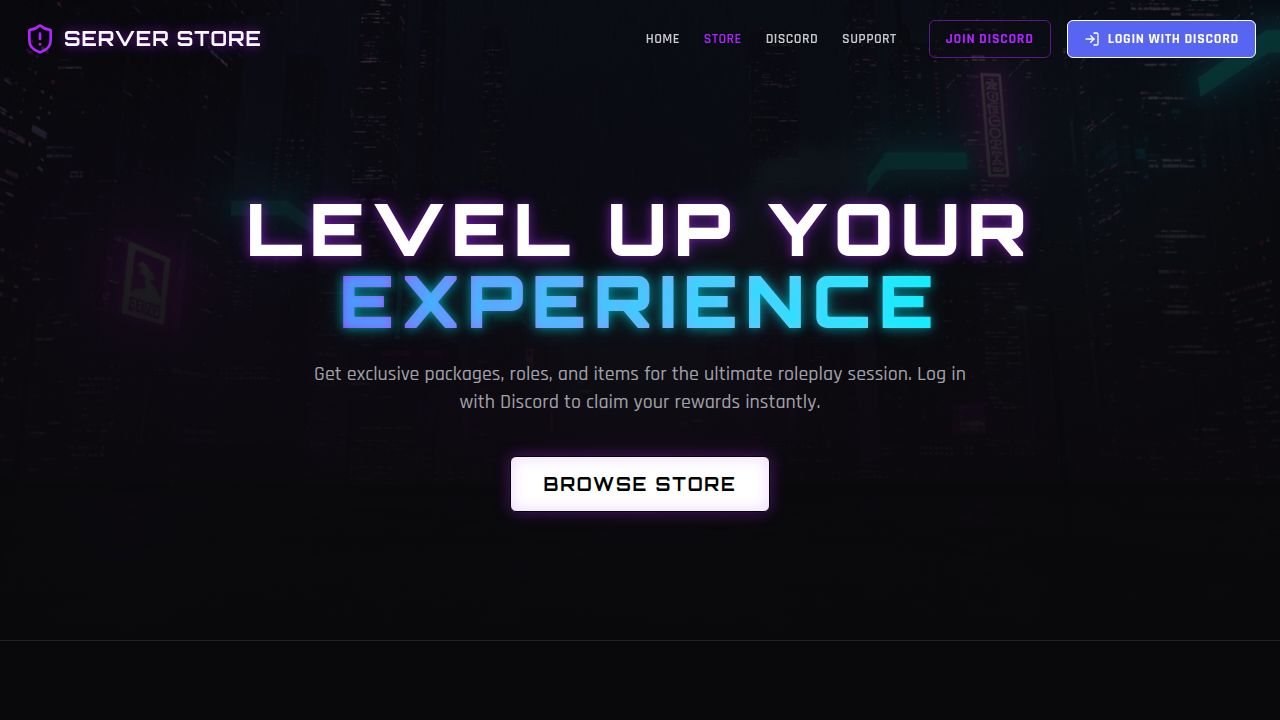
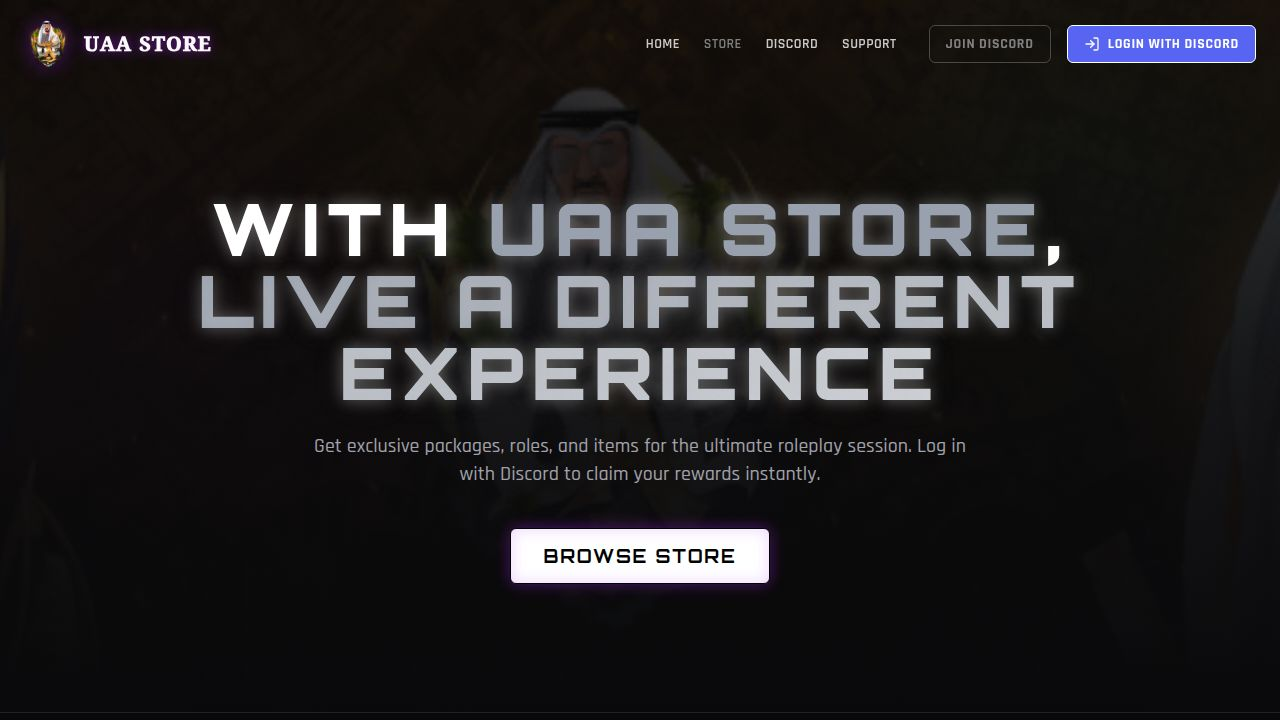
Update website visuals and package offerings with a new gray theme
Replaces purple accents with gray, updates hero text, reorganizes and removes specific packages, and adjusts pricing in `mock-data.ts`.

Replit-Commit-Author: Agent
Replit-Commit-Session-Id: df68417a-05c5-4cce-9be2-ff0393778606
Replit-Commit-Checkpoint-Type: full_checkpoint
Replit-Commit-Event-Id: ead25962-9a13-4fb4-923d-6c2c88bb9560
Replit-Commit-Screenshot-Url: https://storage.googleapis.com/screenshot-production-us-central1/167e323f-6add-4ef7-9ef3-a219f516f5a2/df68417a-05c5-4cce-9be2-ff0393778606/uAJslZT
Replit-Helium-Checkpoint-Created: true

diff --git a/client/src/lib/mock-data.ts b/client/src/lib/mock-data.ts
@@ -1,46 +1,46 @@
 export const packages = [
-  { id: 1, name: "Menu Cars", price: 30.00, category: "Menu", description: "Access to the exclusive vehicles menu." },
-  { id: 2, name: "Menu Clothes", price: 30.00, category: "Menu", description: "Custom clothing options menu." },
-  { id: 3, name: "private CAR", price: 25.00, category: "Vehicles", description: "Your own 1-of-1 private vehicle." },
-  { id: 4, name: "Elite Pack", price: 50.00, category: "Bundles", description: "The ultimate starter bundle for elite players." },
-  { id: 5, name: "SPECIAL ID - Premium 2-digit", price: 185.00, category: "ID", description: "Special 2-digit server ID (e.g. 55-66)." },
-  { id: 6, name: "Elite Pets", price: 40.00, category: "Pets", description: "Exclusive in-game companions." },
-  { id: 7, name: "Baby Pack", price: 40.00, category: "Bundles", description: "Starter items to get you going." },
-  { id: 8, name: "Anime", price: 30.00, category: "Misc", description: "Anime themed items and props." },
-  { id: 9, name: "CAVE", price: 30.00, category: "Misc", description: "Private cave hideout access." },
-  { id: 10, name: "Private Home", price: 45.00, category: "Housing", description: "Custom mapping interior." },
-  { id: 11, name: "Cinema Remote", price: 50.00, category: "Misc", description: "Control the drive-in cinema." },
-  { id: 12, name: "JUST NAME", price: 10.00, category: "Role", description: "Custom colored name overhead." },
-  { id: 13, name: "ONLY NAME", price: 10.00, category: "Role", description: "Hide your ID, show only name." },
-  { id: 14, name: "ID NAME", price: 25.00, category: "Role", description: "Custom tag formatting." },
-  { id: 15, name: "BATMAN", price: 25.00, category: "Heroes", description: "Play as the Dark Knight." },
-  { id: 16, name: "IRON MAN", price: 25.00, category: "Heroes", description: "Full suit and abilities." },
-  { id: 17, name: "HULK", price: 25.00, category: "Heroes", description: "Smash through the city." },
-  { id: 18, name: "SUPERMAN", price: 25.00, category: "Heroes", description: "Flight and super strength." },
-  { id: 19, name: "SPIDER MAN", price: 25.00, category: "Heroes", description: "Web swinging enabled." },
-  { id: 20, name: "HITMAN", price: 25.00, category: "Heroes", description: "Agent 47 custom ped." },
-  { id: 21, name: "Catwomen", price: 25.00, category: "Heroes", description: "Custom ped and agility." },
-  { id: 22, name: "SLENDAR MAN", price: 25.00, category: "Heroes", description: "Terrorize the server." },
-  { id: 23, name: "Flash", price: 25.00, category: "Heroes", description: "Super speed abilities." },
-  { id: 24, name: "JOKER", price: 25.00, category: "Heroes", description: "Custom ped and laugh." },
-  { id: 25, name: "Kill Field", price: 20.00, category: "Misc", description: "Custom kill effects." },
-  { id: 26, name: "Login", price: 5.00, category: "Misc", description: "Custom login screen music/video." },
-  { id: 27, name: "GHOST", price: 400.00, category: "VIP", description: "Premium Ghost status + monthly renewal (550 AED)." },
-  { id: 28, name: "Do Not Disturb", price: 400.00, category: "Misc", description: "Ignore all requests and stay invisible." },
-  { id: 29, name: "Red Ruby", price: 200.00, category: "VIP", description: "Premium ruby tier membership." },
-  { id: 30, name: "كبار داعمين السيرفر", price: 128.00, category: "VIP", description: "Top Supporter rank with exclusive perks." },
-  { id: 31, name: "Kill Field List", price: 15.00, category: "Misc", description: "Custom killfeed UI." },
-  { id: 32, name: "Chat Name", price: 80.00, category: "Role", description: "Colored chat name tag." },
-  { id: 33, name: "MASTER", price: 70.00, category: "VIP", description: "Master VIP Tier - Ultimate status." },
-  { id: 34, name: "DIAMOND", price: 44.00, category: "VIP", description: "Diamond VIP Tier." },
-  { id: 35, name: "GOLD", price: 36.00, category: "VIP", description: "Gold VIP Tier." },
-  { id: 36, name: "SILVER", price: 30.00, category: "VIP", description: "Silver VIP Tier." },
-  { id: 37, name: "VIP MENU", price: 70.00, category: "VIP", description: "Access to VIP exclusive menu." },
-  { id: 38, name: "SPECIAL ID - Normal 2-digit", price: 150.00, category: "ID", description: "Standard 2-digit server ID (e.g. 40-30)." },
-  { id: 39, name: "SPECIAL ID - Premium 3-digit", price: 65.00, category: "ID", description: "Premium 3-digit server ID (e.g. 112, 312)." },
-  { id: 40, name: "SPECIAL ID - Normal 3-digit", price: 55.00, category: "ID", description: "Standard 3-digit server ID (e.g. 136, 362)." },
-  { id: 41, name: "SPECIAL ID - Repeated 3-digit", price: 80.00, category: "ID", description: "Special repeated 3-digit ID (e.g. 111, 333)." },
-  { id: 42, name: "SPECIAL ID - Repeated 4-digit", price: 70.00, category: "ID", description: "Premium 4-digit repeated ID (e.g. 1111, 3333)." },
+  { id: 1, name: "GHOST", price: 400.00, category: "VIP", description: "Premium Ghost status. First purchase." },
+  { id: 2, name: "Do Not Disturb", price: 400.00, category: "Premium", description: "Stay invisible and ignore all requests." },
+  { id: 3, name: "SPECIAL ID - Premium 2-digit", price: 185.00, category: "ID", description: "Premium 2-digit server ID (e.g. 55, 66)." },
+  { id: 4, name: "Red Ruby", price: 200.00, category: "VIP", description: "Premium ruby tier membership." },
+  { id: 5, name: "SPECIAL ID - Normal 2-digit", price: 150.00, category: "ID", description: "Standard 2-digit server ID (e.g. 40, 30)." },
+  { id: 6, name: "CAVE (1 Month)", price: 150.00, category: "Housing", description: "Private cave hideout for 1 month." },
+  { id: 7, name: "CAVE (1 Week)", price: 80.00, category: "Housing", description: "Private cave hideout for 1 week." },
+  { id: 8, name: "SPECIAL ID - Repeated 3-digit", price: 80.00, category: "ID", description: "Premium repeated 3-digit ID (e.g. 111, 333)." },
+  { id: 9, name: "Kill Field List", price: 80.00, category: "Misc", description: "Custom killfeed UI." },
+  { id: 10, name: "SPECIAL ID - 6-Digit Negative Repeating", price: 70.00, category: "ID", description: "6-Digit negative repeating (e.g. -222222, -333333)." },
+  { id: 11, name: "VIP MENU", price: 70.00, category: "VIP", description: "Access to VIP exclusive menu." },
+  { id: 12, name: "MASTER", price: 70.00, category: "VIP", description: "Master VIP Tier - Ultimate status." },
+  { id: 13, name: "SPECIAL ID - Repeated 4-digit", price: 70.00, category: "ID", description: "Premium 4-digit repeated ID (e.g. 1111, 3333)." },
+  { id: 14, name: "SPECIAL ID - Premium Triplet", price: 65.00, category: "ID", description: "Premium 3-digit server ID (e.g. 112, 312)." },
+  { id: 15, name: "SPECIAL ID - 6-Digit Negative Standard", price: 65.00, category: "ID", description: "6-Digit negative standard (e.g. -656565)." },
+  { id: 16, name: "كبار داعمين السيرفر", price: 128.00, category: "VIP", description: "Top Supporter rank with exclusive perks." },
+  { id: 17, name: "DIAMOND", price: 44.00, category: "VIP", description: "Diamond VIP Tier." },
+  { id: 18, name: "GOLD", price: 36.00, category: "VIP", description: "Gold VIP Tier." },
+  { id: 19, name: "SILVER", price: 30.00, category: "VIP", description: "Silver VIP Tier." },
+  { id: 20, name: "Menu Cars", price: 30.00, category: "Menu", description: "Access to the exclusive vehicles menu." },
+  { id: 21, name: "Menu Clothes", price: 30.00, category: "Menu", description: "Custom clothing options menu." },
+  { id: 22, name: "Elite Pack", price: 50.00, category: "Bundles", description: "The ultimate starter bundle for elite players." },
+  { id: 23, name: "Elite Pets", price: 50.00, category: "Pets", description: "Exclusive in-game companions." },
+  { id: 24, name: "Cinema Remote", price: 50.00, category: "Misc", description: "Control the drive-in cinema." },
+  { id: 25, name: "Baby Pack", price: 40.00, category: "Bundles", description: "Starter items to get you going." },
+  { id: 26, name: "ONLY NAME", price: 40.00, category: "Role", description: "Hide your ID, show only name." },
+  { id: 27, name: "SPECIAL ID - Standard Triplet", price: 55.00, category: "ID", description: "Standard 3-digit server ID (e.g. 136, 362)." },
+  { id: 28, name: "SPECIAL ID - 5-Digit Negative", price: 55.00, category: "ID", description: "5-Digit negative ID (minimum 5 digits, e.g. -52133)." },
+  { id: 29, name: "CAVE (2 Days)", price: 30.00, category: "Housing", description: "Private cave hideout for 2 days." },
+  { id: 30, name: "JUST NAME", price: 200.00, category: "Role", description: "Custom colored name overhead tag." },
+  { id: 31, name: "BATMAN", price: 20.00, category: "Heroes", description: "Play as the Dark Knight." },
+  { id: 32, name: "IRON MAN", price: 20.00, category: "Heroes", description: "Full suit and abilities." },
+  { id: 33, name: "HULK", price: 20.00, category: "Heroes", description: "Smash through the city." },
+  { id: 34, name: "SUPERMAN", price: 20.00, category: "Heroes", description: "Flight and super strength." },
+  { id: 35, name: "SPIDER MAN", price: 20.00, category: "Heroes", description: "Web swinging enabled." },
+  { id: 36, name: "HITMAN", price: 20.00, category: "Heroes", description: "Agent 47 custom ped." },
+  { id: 37, name: "Catwomen", price: 20.00, category: "Heroes", description: "Custom ped and agility." },
+  { id: 38, name: "SLENDAR MAN", price: 20.00, category: "Heroes", description: "Terrorize the server." },
+  { id: 39, name: "Flash", price: 20.00, category: "Heroes", description: "Super speed abilities." },
+  { id: 40, name: "JOKER", price: 20.00, category: "Heroes", description: "Custom ped and laugh." },
+  { id: 41, name: "Kill Field", price: 20.00, category: "Misc", description: "Custom kill effects." },
+  { id: 42, name: "ID NAME", price: 25.00, category: "Role", description: "Custom tag formatting." },
 ];
 
 export type Package = typeof packages[0];

diff --git a/client/src/pages/home.tsx b/client/src/pages/home.tsx
@@ -44,13 +44,13 @@ export default function Home() {
         </div>
         
         <div className="container relative z-10 mx-auto px-4 text-center">
-          <h1 className="text-5xl md:text-7xl font-display font-black text-white mb-6 tracking-widest uppercase neon-text-purple">
-            Level Up Your <br/><span className="text-transparent bg-clip-text bg-gradient-to-r from-primary to-secondary neon-text-blue">Experience</span>
+          <h1 className="text-5xl md:text-7xl font-display font-black text-white mb-6 tracking-widest uppercase neon-text-gray">
+            With <span className="text-gray-400">UAA STORE</span>,<br/><span className="text-transparent bg-clip-text bg-gradient-to-r from-gray-400 to-gray-300">Live a Different Experience</span>
           </h1>
           <p className="text-lg md:text-xl text-muted-foreground max-w-2xl mx-auto mb-10 font-medium">
             Get exclusive packages, roles, and items for the ultimate roleplay session. Log in with Discord to claim your rewards instantly.
           </p>
-          <Button size="lg" className="h-14 px-8 text-lg bg-white text-black hover:bg-white/90 font-display font-bold uppercase tracking-widest neon-box-purple">
+          <Button size="lg" className="h-14 px-8 text-lg bg-white text-black hover:bg-white/90 font-display font-bold uppercase tracking-widest neon-box-gray">
             Browse Store
           </Button>
         </div>
@@ -72,7 +72,7 @@ export default function Home() {
                   onClick={() => setActiveCategory(cat)}
                   className={`px-4 py-2 rounded-full font-display text-sm font-bold tracking-wider whitespace-nowrap transition-all ${
                     activeCategory === cat 
-                      ? "bg-primary text-white neon-box-purple" 
+                      ? "bg-gray-600 text-white neon-box-gray" 
                       : "bg-card border border-white/10 text-muted-foreground hover:text-white hover:border-white/30"
                   }`}
                 >
@@ -93,7 +93,7 @@ export default function Home() {
 
       {/* Mock Checkout Dialog */}
       <Dialog open={isCheckingOut} onOpenChange={setIsCheckingOut}>
-        <DialogContent className="bg-card border-primary/20 neon-box-purple sm:max-w-md">
+        <DialogContent className="bg-card border-gray-600/20 neon-box-gray sm:max-w-md">
           {purchaseSuccess ? (
             <div className="flex flex-col items-center justify-center py-8 text-center animate-in zoom-in">
               <div className="w-16 h-16 rounded-full bg-green-500/20 flex items-center justify-center mb-4">
@@ -101,7 +101,7 @@ export default function Home() {
               </div>
               <DialogTitle className="text-2xl font-display text-white mb-2">Payment Successful!</DialogTitle>
               <p className="text-muted-foreground">
-                Your <span className="text-primary font-bold">{selectedPackage?.name}</span> has been applied to your account.
+                Your <span className="text-gray-400 font-bold">{selectedPackage?.name}</span> has been applied to your account.
               </p>
               <p className="text-xs text-muted-foreground mt-4 italic">
                 A Discord webhook has been triggered.

diff --git a/client/src/components/store/package-card.tsx b/client/src/components/store/package-card.tsx
@@ -10,27 +10,27 @@ interface PackageCardProps {
 
 export function PackageCard({ pkg, onBuy }: PackageCardProps) {
   return (
-    <div className="group relative rounded-xl overflow-hidden glass-panel border-white/10 hover:neon-border-purple transition-all duration-500 hover:-translate-y-2">
+    <div className="group relative rounded-xl overflow-hidden glass-panel border-white/10 hover:neon-border-gray transition-all duration-500 hover:-translate-y-2">
       {/* Glow effect behind card */}
-      <div className="absolute -inset-0.5 bg-gradient-to-r from-primary to-secondary opacity-0 group-hover:opacity-20 blur transition-opacity duration-500 rounded-xl" />
+      <div className="absolute -inset-0.5 bg-gradient-to-r from-gray-500 to-gray-400 opacity-0 group-hover:opacity-20 blur transition-opacity duration-500 rounded-xl" />
       
       <div className="relative h-full flex flex-col p-6 z-10 bg-card/90">
         <div className="flex justify-center mb-6 relative">
-          <div className="absolute inset-0 bg-primary/20 blur-xl rounded-full" />
+          <div className="absolute inset-0 bg-gray-500/20 blur-xl rounded-full" />
           <img 
             src={crateImg} 
             alt={pkg.name} 
-            className="w-32 h-32 object-contain relative z-10 drop-shadow-[0_0_15px_rgba(176,38,255,0.5)] group-hover:scale-110 transition-transform duration-500"
+            className="w-32 h-32 object-contain relative z-10 drop-shadow-[0_0_15px_rgba(128,128,128,0.5)] group-hover:scale-110 transition-transform duration-500"
           />
         </div>
         
         <div className="mb-2">
-          <span className="text-xs font-display tracking-widest text-primary font-bold uppercase">
+          <span className="text-xs font-display tracking-widest text-gray-400 font-bold uppercase">
             {pkg.category}
           </span>
         </div>
         
-        <h3 className="text-xl font-display font-bold text-white mb-2 line-clamp-1 group-hover:neon-text-purple transition-colors">
+        <h3 className="text-xl font-display font-bold text-white mb-2 line-clamp-1 group-hover:neon-text-gray transition-colors">
           {pkg.name}
         </h3>
         
@@ -39,12 +39,12 @@ export function PackageCard({ pkg, onBuy }: PackageCardProps) {
         </p>
         
         <div className="flex items-center justify-between mt-auto pt-4 border-t border-white/10">
-          <div className="font-display font-bold text-2xl text-white">
+          <div className="font-display font-bold text-2xl text-gray-300">
             ${pkg.price.toFixed(2)}
           </div>
           <Button 
             onClick={() => onBuy(pkg)}
-            className="bg-primary hover:bg-primary/80 text-white font-bold tracking-wider uppercase"
+            className="bg-gray-600 hover:bg-gray-500 text-white font-bold tracking-wider uppercase"
           >
             <ShoppingCart className="w-4 h-4 mr-2" />
             Buy Now

diff --git a/client/src/index.css b/client/src/index.css
@@ -45,18 +45,18 @@
   --popover: 240 10% 4%;
   --popover-foreground: 0 0% 98%;
 
-  /* Neon Purple: #b026ff -> HSL ~278 100% 57% */
-  --primary: 278 100% 57%;
+  /* Gray: #808080 -> HSL ~0 0% 50% */
+  --primary: 0 0% 50%;
   --primary-foreground: 0 0% 100%;
 
-  /* Neon Cyan: #00f0ff -> HSL ~184 100% 50% */
-  --secondary: 184 100% 50%;
+  /* Gray accent: #A0A0A0 */
+  --secondary: 0 0% 63%;
   --secondary-foreground: 240 10% 4%;
 
   --muted: 240 5% 15%;
   --muted-foreground: 240 5% 65%;
 
-  --accent: 278 100% 57%;
+  --accent: 0 0% 50%;
   --accent-foreground: 0 0% 98%;
 
   --destructive: 0 84% 60%;
@@ -64,7 +64,7 @@
 
   --border: 240 10% 15%;
   --input: 240 10% 15%;
-  --ring: 278 100% 57%;
+  --ring: 0 0% 50%;
 
   --radius: 0.5rem;
 }
@@ -91,6 +91,10 @@
     text-shadow: 0 0 10px rgba(176, 38, 255, 0.5), 0 0 20px rgba(176, 38, 255, 0.3);
   }
   
+  .neon-text-gray {
+    text-shadow: 0 0 15px rgba(200, 200, 200, 0.4), 0 0 30px rgba(150, 150, 150, 0.2);
+  }
+  
   .neon-text-blue {
     text-shadow: 0 0 10px rgba(0, 240, 255, 0.5), 0 0 20px rgba(0, 240, 255, 0.3);
   }
@@ -100,6 +104,11 @@
     border-color: rgba(176, 38, 255, 0.5);
   }
   
+  .neon-border-gray {
+    box-shadow: 0 0 10px rgba(150, 150, 150, 0.2), inset 0 0 10px rgba(150, 150, 150, 0.1);
+    border-color: rgba(150, 150, 150, 0.5);
+  }
+  
   .neon-border-blue {
     box-shadow: 0 0 10px rgba(0, 240, 255, 0.2), inset 0 0 10px rgba(0, 240, 255, 0.1);
     border-color: rgba(0, 240, 255, 0.5);
@@ -107,6 +116,10 @@
 
   .neon-box-purple {
     box-shadow: 0 0 15px rgba(176, 38, 255, 0.4), inset 0 0 15px rgba(176, 38, 255, 0.2);
+  }
+
+  .neon-box-gray {
+    box-shadow: 0 0 15px rgba(150, 150, 150, 0.3), inset 0 0 15px rgba(150, 150, 150, 0.15);
   }
   
   .glass-panel {

diff --git a/client/src/components/layout/navbar.tsx b/client/src/components/layout/navbar.tsx
@@ -36,8 +36,8 @@ export function Navbar() {
         <div className="flex items-center justify-between">
           <Link href="/">
             <div className="flex items-center gap-3 cursor-pointer group">
-              <img src={logo} alt="UAA Store" className="h-12 drop-shadow-[0_0_10px_rgba(176,38,255,0.4)] group-hover:drop-shadow-[0_0_15px_rgba(0,240,255,0.4)] transition-all" />
-              <span className="font-display font-bold text-xl tracking-wider neon-text-purple hidden sm:inline">
+              <img src={logo} alt="UAA Store" className="h-12 drop-shadow-[0_0_10px_rgba(128,128,128,0.4)] group-hover:drop-shadow-[0_0_15px_rgba(160,160,160,0.4)] transition-all" />
+              <span className="font-display font-bold text-xl tracking-wider neon-text-gray hidden sm:inline">
                 𝐔𝐀𝐀 𝐒𝐓𝐎𝐑𝐄
               </span>
             </div>
